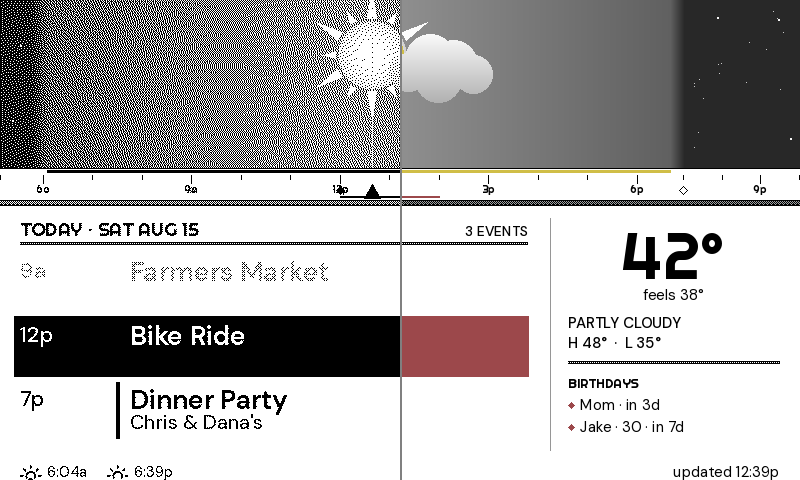
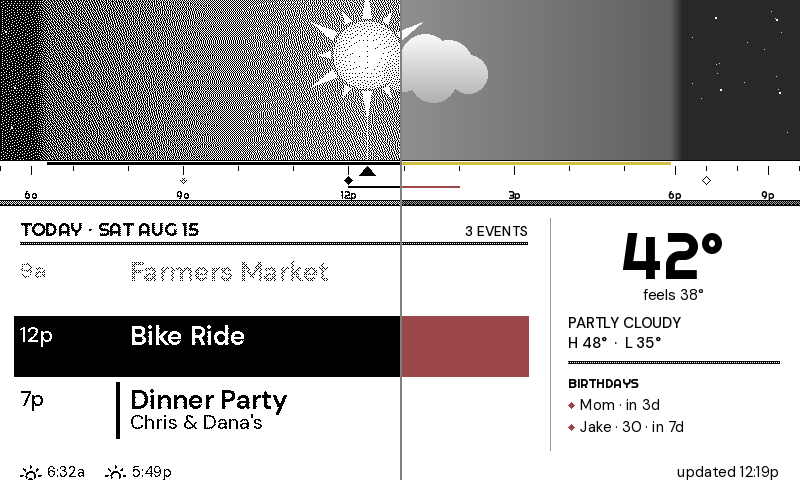
fix(day_arc): give every axis-strip element an exclusive row band
The time axis strip packed four elements into overlapping row ranges:
hour ticks at y+7…15, hour labels at y+17…26, event pips at y+17…25 and
the NOW caret at y+16…30. Labels, pips and the caret all shared
y+16…30, which made collisions a matter of luck rather than something
the layout prevented.

An event starting on the hour puts its pip at exactly the x its hour
label is centred on, so the two could only ever land on top of each
other. Measured against a plain 9am/12pm/3pm/6pm calendar, all four
pips collided with their labels.

Each element now gets an exclusive band — ticks and the caret at y+6…15,
pips at y+16…24, the in-progress duration bar at y+26…27 and labels at
y+28…38. The 8 px this needed comes out of the sky (SKY_H 168 → 160,
AXIS_H 32 → 40), so RIBBON_H stays 200 and the agenda geometry and
density tiers below are untouched. The disc constants follow the shorter
sky rather than leaning on the clamp to do the work.

The caret keeps the tick row deliberately: it marks the current moment
*on the timeline*, so it belongs with the ticks, and the 1 px of tick it
covers where they coincide is a non-loss.

`TestAxisStripBands` asserts the bands are pairwise disjoint and fit the
strip, so a future edit that reintroduces an overlap fails immediately;
it fails against the old geometry, confirming it is not vacuous. A
behavioural test renders the on-the-hour calendar that triggered this.

Claude-Session: https://claude.ai/code/session_014cmXSfoMt4qGsPFMEUmQZN

diff --git a/src/render/components/day_arc_panel.py b/src/render/components/day_arc_panel.py
@@ -7,12 +7,13 @@ re-tasks the artwork so it *is* the calendar rather than competing with it.
 
 Three bands, top to bottom:
 
-  * **Ribbon** (168 px) — a horizontal sky gradient tracking the sun's height
+  * **Ribbon** (160 px) — a horizontal sky gradient tracking the sun's height
     across today, with the sun (or moon, after dark) riding an arc at the
     current time's real horizontal position and weather art drawn around it.
-  * **Axis strip** (32 px) — the ribbon's baseline doubles as a time axis:
-    a daylight bar, hour ticks, a NOW caret, and one pip per timed event so
-    the shape of the day is readable at a glance.
+  * **Axis strip** (40 px) — the ribbon's baseline doubles as a time axis:
+    a daylight bar, hour ticks, a NOW caret, one pip per timed event and the
+    hour labels, so the shape of the day is readable at a glance. Each of
+    those gets its own exclusive row band; see the ``_AXIS_*`` constants.
   * **Body** (274 px) — a full-height agenda on the left and a supporting rail
     (temperature, conditions, birthdays) on the right.
 
@@ -77,9 +78,9 @@ _SUNSET_GLYPH = ""  # wi-sunset
 # Region geometry
 # ---------------------------------------------------------------------------
 
-SKY_H = 168  # dithered sky + disc + weather art
+SKY_H = 160  # dithered sky + disc + weather art
 AXIS_Y = SKY_H  # solid horizon hairline sits on this row
-AXIS_H = 32  # paper-white strip carrying ticks, pips and the caret
+AXIS_H = 40  # paper-white strip carrying ticks, pips, the caret and labels
 RIBBON_H = SKY_H + AXIS_H  # 200
 RULE_H = 6  # ordered-Bayer separator
 BODY_Y = RIBBON_H + RULE_H  # 206
@@ -94,10 +95,35 @@ RAIL_W = 212
 # The axis strip is white so every tick, pip and label can be drawn in solid
 # ink. Marks drawn onto the sky itself would vanish into the night gradient at
 # one end of the day and wash out against the midday band at the other.
-_AXIS_BAR_Y = 2  # daylight bar, relative to AXIS_Y
-_AXIS_TICK_Y = 7
-_AXIS_LABEL_Y = 14
-_AXIS_PIP_Y = 18
+#
+# Every element gets an *exclusive* row band, all offsets relative to AXIS_Y.
+# They used to share rows, which made collisions a matter of luck: an event
+# starting on the hour puts its pip at exactly the x its hour label is centred
+# on, so the two could only ever land on top of each other. Keep these bands
+# disjoint — ``TestAxisStripBands`` fails the build if they stop being so.
+#
+#   y+0            baseline hairline
+#   y+2  … y+4     daylight bar
+#   y+6  … y+14    hour ticks + NOW caret
+#   y+16 … y+24    event pips
+#   y+26 … y+27    in-progress duration bar
+#   y+28 … y+38    hour labels (glyph ink lands ~3 px below the draw origin)
+_AXIS_BAR_Y = 2
+_AXIS_BAR_H = 3
+_AXIS_TICK_Y = 6
+_AXIS_TICK_MAJOR_H = 8
+_AXIS_TICK_MINOR_H = 4
+# The caret shares the tick row on purpose: it marks the current moment *on the
+# timeline*, so it belongs with the ticks, and the 1 px of tick it covers where
+# they coincide is a non-loss.
+_AXIS_CARET_H = 9
+_AXIS_CARET_HALF_W = 8
+_AXIS_PIP_Y = 16
+_AXIS_PIP_H = 9
+_AXIS_DUR_Y = 26
+_AXIS_DUR_H = 2
+_AXIS_LABEL_Y = 28
+_AXIS_LABEL_PT = 11
 
 # Sky tones. Chosen inside halftone's proven range: Floyd-Steinberg only reads
 # as a visible halftone well below mid-grey, so the midday peak stays dark
@@ -113,8 +139,8 @@ _NIGHT_DIM = 0.45
 # Disc placement. The disc rides a sine arc between sunrise and sunset so its
 # height encodes solar altitude — a second reading for free.
 DISC_R = 34
-DISC_BASE_Y = 128  # centre y at sunrise / sunset
-DISC_ARC_RISE = 74  # additional rise at solar midpoint
+DISC_BASE_Y = 120  # centre y at sunrise / sunset — 6 px clear of the baseline
+DISC_ARC_RISE = 66  # additional rise at solar midpoint (peak centre y = 54)
 
 # Axis window shaping.
 DAY_FRACTION = 0.78  # share of the axis width given to the daylight core
@@ -690,10 +716,15 @@ def _draw_axis_strip(
     y0: int,
     w: int,
 ) -> None:
-    """Baseline hairline, daylight bar, hour ticks, event pips and NOW caret."""
+    """Baseline hairline, daylight bar, hour ticks, event pips and NOW caret.
+
+    Each element is confined to its own row band (see the ``_AXIS_*`` constants)
+    so no combination of clock time and event times can make two of them
+    collide.
+    """
     mode = image.mode
     ink = _ink(mode)
-    label_font = (style.font_section_label or style.font_bold)(11)
+    label_font = (style.font_section_label or style.font_bold)(_AXIS_LABEL_PT)
 
     # Baseline: a solid rule the whole ribbon sits on.
     draw.rectangle((x0, y0, x0 + w - 1, y0), fill=ink)
@@ -705,7 +736,7 @@ def _draw_axis_strip(
         bar_x1 = axis.x_for(axis.sunset)
         if bar_x1 > bar_x0:
             draw.rectangle(
-                (bar_x0, y0 + _AXIS_BAR_Y, bar_x1, y0 + _AXIS_BAR_Y + 2),
+                (bar_x0, y0 + _AXIS_BAR_Y, bar_x1, y0 + _AXIS_BAR_Y + _AXIS_BAR_H - 1),
                 fill=_accent_yellow(mode) if mode == "RGB" else ink,
             )
 
@@ -719,7 +750,10 @@ def _draw_axis_strip(
         x = axis.x_for(hour)
         major = hour.hour % 3 == 0
         if major:
-            draw.line((x, y0 + _AXIS_TICK_Y, x, y0 + _AXIS_TICK_Y + 8), fill=ink)
+            draw.line(
+                (x, y0 + _AXIS_TICK_Y, x, y0 + _AXIS_TICK_Y + _AXIS_TICK_MAJOR_H),
+                fill=ink,
+            )
             label = fmt_time(hour)
             lw = text_width(draw, label, label_font)
             lx = x - lw // 2
@@ -727,13 +761,18 @@ def _draw_axis_strip(
                 draw.text((lx, y0 + _AXIS_LABEL_Y), label, font=label_font, fill=ink)
                 last_label_right = lx + lw
         elif x - last_minor_x >= 9:
-            draw.line((x, y0 + _AXIS_TICK_Y, x, y0 + _AXIS_TICK_Y + 4), fill=ink)
+            draw.line(
+                (x, y0 + _AXIS_TICK_Y, x, y0 + _AXIS_TICK_Y + _AXIS_TICK_MINOR_H),
+                fill=ink,
+            )
             last_minor_x = x
         hour += timedelta(hours=1)
 
-    # Event pips. Past events are screened, the in-progress one is solid with a
-    # duration bar, upcoming ones are hollow.
+    # Event pips, on their own row below the ticks. Past events are screened,
+    # the in-progress one is solid, upcoming ones are hollow.
     pip_y = y0 + _AXIS_PIP_Y
+    half = _AXIS_PIP_H // 2
+    dur_y = y0 + _AXIS_DUR_Y
     placed: list[int] = []
     for ev in events:
         if ev.is_all_day:
@@ -743,29 +782,42 @@ def _draw_axis_strip(
             continue
         placed.append(x)
         state = event_state(ev, now)
-        pts = [(x, pip_y), (x + 4, pip_y + 4), (x, pip_y + 8), (x - 4, pip_y + 4)]
+        pts = [
+            (x, pip_y),
+            (x + half, pip_y + half),
+            (x, pip_y + 2 * half),
+            (x - half, pip_y + half),
+        ]
         if state == "past":
             screened_paste(
                 image,
-                (x - 5, pip_y - 1, 11, 11),
-                lambda d, p=pts, ax=x, ay=pip_y: d.polygon(
-                    [(px - ax + 5, py - ay + 1) for px, py in p], fill=0
+                (x - half - 1, pip_y - 1, _AXIS_PIP_H + 2, _AXIS_PIP_H + 2),
+                lambda d, p=pts, ax=x, ay=pip_y, h=half: d.polygon(
+                    [(px - ax + h + 1, py - ay + 1) for px, py in p], fill=0
                 ),
                 threshold=_PAST_SCREEN,
             )
         elif state == "now":
             draw.polygon(pts, fill=ink)
+            # Duration bar gets its own band so it can't cut through a label.
             end_x = axis.x_for(_strip_tz(ev.end))
             if end_x > x:
-                draw.rectangle((x, pip_y + 10, end_x, pip_y + 11), fill=_accent_red(mode))
+                draw.rectangle((x, dur_y, end_x, dur_y + _AXIS_DUR_H - 1), fill=_accent_red(mode))
         else:
             draw.polygon(pts, outline=ink)
 
-    # NOW caret, plus a faint beam running up through the sky.
+    # NOW caret, in the tick row so it reads against the timeline itself, plus a
+    # faint beam running up through the sky.
     now_x = axis.x_for(now)
     draw.line((now_x, y0 - SKY_H + 1, now_x, y0 - 1), fill=_grey(230, mode))
+    caret_top = y0 + _AXIS_TICK_Y
+    caret_bot = caret_top + _AXIS_CARET_H
     draw.polygon(
-        [(now_x, y0 + _AXIS_PIP_Y - 2), (now_x + 8, y0 + AXIS_H - 2), (now_x - 8, y0 + AXIS_H - 2)],
+        [
+            (now_x, caret_top),
+            (now_x + _AXIS_CARET_HALF_W, caret_bot),
+            (now_x - _AXIS_CARET_HALF_W, caret_bot),
+        ],
         fill=_accent_red(mode),
     )
 

diff --git a/tests/test_day_arc_theme.py b/tests/test_day_arc_theme.py
@@ -12,9 +12,26 @@ from src.data.models import Birthday, CalendarEvent, DashboardData
 from src.dummy_data import generate_dummy_data
 from src.render.canvas import render_dashboard
 from src.render.components.day_arc_panel import (
+    _AXIS_BAR_H,
+    _AXIS_BAR_Y,
+    _AXIS_CARET_H,
+    _AXIS_DUR_H,
+    _AXIS_DUR_Y,
+    _AXIS_LABEL_PT,
+    _AXIS_LABEL_Y,
+    _AXIS_PIP_H,
+    _AXIS_PIP_Y,
+    _AXIS_TICK_MAJOR_H,
+    _AXIS_TICK_Y,
+    AXIS_H,
     AXIS_MAX_HOUR,
     AXIS_MIN_HOUR,
     DAY_FRACTION,
+    DISC_ARC_RISE,
+    DISC_BASE_Y,
+    DISC_R,
+    RIBBON_H,
+    SKY_H,
     _next_birthdays,
     _resolve_day_bounds,
     _sky_marks,
@@ -354,6 +371,63 @@ class TestAgendaDay:
             False,
         )
         assert agenda_day([_event(8)], TODAY, MIDNIGHT + timedelta(hours=19), None)[1] is True
+
+
+class TestAxisStripBands:
+    """The axis strip's elements must never share rows.
+
+    They used to: hour labels, event pips and the NOW caret all lived in
+    ``y+16 … y+30``. That made collisions a matter of luck — an event starting
+    on the hour puts its pip at exactly the x its hour label is centred on, so
+    a plain 9a/12p/3p/6p calendar collided on every single one.
+    """
+
+    def _bands(self) -> list[tuple[str, int, int]]:
+        return [
+            ("baseline", 0, 1),
+            ("daylight bar", _AXIS_BAR_Y, _AXIS_BAR_Y + _AXIS_BAR_H),
+            (
+                "ticks/caret",
+                _AXIS_TICK_Y,
+                _AXIS_TICK_Y + max(_AXIS_TICK_MAJOR_H, _AXIS_CARET_H) + 1,
+            ),
+            ("pips", _AXIS_PIP_Y, _AXIS_PIP_Y + _AXIS_PIP_H),
+            ("duration bar", _AXIS_DUR_Y, _AXIS_DUR_Y + _AXIS_DUR_H),
+            ("labels", _AXIS_LABEL_Y, _AXIS_LABEL_Y + _AXIS_LABEL_PT),
+        ]
+
+    def test_bands_are_pairwise_disjoint(self):
+        bands = self._bands()
+        for i, (name_a, a0, a1) in enumerate(bands):
+            for name_b, b0, b1 in bands[i + 1 :]:
+                assert a1 <= b0 or b1 <= a0, f"{name_a} [{a0},{a1}) overlaps {name_b} [{b0},{b1})"
+
+    def test_bands_fit_within_the_strip(self):
+        for name, lo, hi in self._bands():
+            assert 0 <= lo < hi <= AXIS_H, f"{name} [{lo},{hi}) escapes the {AXIS_H}px strip"
+
+    def test_ribbon_height_is_unchanged(self):
+        # The body below the ribbon (agenda geometry, density tiers) is sized
+        # against RIBBON_H, so trading sky for axis must keep the total fixed.
+        assert SKY_H + AXIS_H == RIBBON_H == 200
+
+    def test_disc_stays_clear_of_the_baseline(self):
+        assert DISC_BASE_Y + DISC_R < SKY_H
+        assert DISC_BASE_Y - DISC_ARC_RISE - DISC_R >= 0
+
+    def test_on_the_hour_events_do_not_collide_with_hour_labels(self):
+        # The reported regression, end to end: a 9a/12p/3p/6p day renders with
+        # the pip band and the label band both inked and no shared rows.
+        events = [_event(h, name=f"Meeting {h}") for h in (9, 12, 15, 18)]
+        img = _render(data=_data_for(events=events)).convert("L")
+        pip_band = img.crop((0, SKY_H + _AXIS_PIP_Y, 800, SKY_H + _AXIS_PIP_Y + _AXIS_PIP_H))
+        label_band = img.crop((0, SKY_H + _AXIS_LABEL_Y, 800, SKY_H + AXIS_H))
+        assert _ink_count(pip_band) > 0, "no event pips drawn"
+        assert _ink_count(label_band) > 0, "no hour labels drawn"
+        # The rows between the two bands are the separator — they must be clear
+        # of everything except the (optional) in-progress duration bar.
+        gap = img.crop((0, SKY_H + _AXIS_PIP_Y + _AXIS_PIP_H, 800, SKY_H + _AXIS_DUR_Y))
+        assert _ink_count(gap) == 0
 
 
 class TestAgendaMetrics:

diff --git a/CLAUDE.md b/CLAUDE.md
@@ -465,7 +465,8 @@ default to `None` and fall back gracefully so adding a new field never breaks ex
 - `naturalist` theme is a Victorian botanical plate in `naturalist_panel.py`. Astloch blackletter masthead (`PLATE [Roman]` left + `[YEAR-roman] · [MONTH]` right) over a triple-rule. Below it: Cinzel small-caps Latin specimen name (`QUERCUS VERNALIS`, `AESTIVALIS`, `AUTUMNALIS`, `HIBERNALIS` keyed by `_season(today)`, plus weather suffixes `· sub pluvia / fulmine / nive / nebula / gelu` via `_weather_modifier(icon, temp)`). Hero specimen is a procedural branch (solid black trunk + white engraving-style highlight strokes, curving roots, mixed filled/outlined almond leaves whose count + treatment vary by season — bare in winter, buds in spring, lush canopy in summer, fallen leaves on the ground in autumn — plus weather overlays for rain/storm/snow/frost/fog). RNG seed comes from `_stable_seed(season, modifier, today)` so the specimen is reproducible across Python processes (default `str.__hash__` is randomized per process and would break snapshot tests). Four leader-line callouts (`FIG. I EVENT`, `FIG. II LUNA`, `FIG. III SOL`, `FIG. IV AER`) pin data to anatomical features on the specimen via `_feature_points()`. Triple-rule footer + daily quote in Playfair + red Cinzel author. `canvas_mode="L"`, `preferred_quantization_mode="floyd_steinberg"`, `prefer_color_on_inky=True`. Inky palette `(INKY_RED, INKY_BLACK)`. Included in the random rotation pool.
 - `constellation_map` theme is a dark-canvas star chart in `constellation_map_panel.py`. Uses `canvas_mode="L"` with `fg=255, bg=0` (white stars on black sky) and `prefer_color_on_inky=True` so Inky renders the disc rim, cardinal letters, and constellation names in yellow with blue constellation lines + altitude rings. Equidistant azimuthal projection (zenith centre, horizon rim, N top / **E left** / S bottom / W right — looking-up convention). Bundled star catalogue (`src/render/star_catalog.py`) is a curated J2000 subset (~45 named bright stars) with constellation outline data for Ursa Major, Cassiopeia, Orion, Lyra, Cygnus, Boötes, and Leo. Position math (`_julian_day_full`, `gmst_degrees`, `local_sidereal_time`, `equatorial_to_horizontal`, `moon_equatorial`) all live in `src/astronomy.py`. During daylight the chart auto-projects for tonight's solar midnight (12 h after solar noon) so the disc stays informative. Star and constellation labels render in **Audiowide** (OFL retro-futuristic display sans, `audiowide`). Requires `weather.latitude` / `weather.longitude`; without them the panel renders an explanatory message inside the disc. Inky palette `(INKY_YELLOW, INKY_BLUE)`. Included in the random rotation pool.
 - `weatherglass` theme is a Victorian weather-station instrument deck in `weatherglass_panel.py` (full-canvas `weatherglass` region on `ThemeLayout`; the panel receives the full `DashboardData` like `diags_panel`). A **Rye** (`rye`) Western-saloon masthead sits over three hero instruments — a procedural mercury thermometer, a round barometer dial, and a hygrometer arc + UV-index bar — then a secondary row of wind compass, sun arc (`src.astronomy.sun_times`), moon porthole, and an optional AQI badge. The barometer carries a second **trend needle** driven by a tiny rolling pressure history in `state/weatherglass_pressure_history.json` (atomic write, trimmed to samples 1–36 h old); `app.py` passes `state_dir=None` on `--dry-run`/`--dummy` runs so previews never persist history. `canvas_mode="L"` at 2× supersample (1600×960) with `preferred_quantization_mode="threshold"` (not Floyd-Steinberg — every shaded zone is hand-stippled, so the antialiased rims snap to crisp solid black instead of dithering into speckle) and `prefer_color_on_inky=True`. Numerals use **Cinzel Black** (`cinzel_black`, via `font_date_number`) since NuCore's digit/degree metrics are degenerate. Inky palette `(INKY_YELLOW, INKY_RED)` — brass rims yellow, mercury column + alert cartouche red, cold scale + falling-pressure needle blue, comfort band + rising-pressure needle green. No new fetcher. Included in the random rotation pool.
-- `day_arc` theme is the calendar-forward sibling of `halftone`, rendered by `day_arc_panel.py` via the full-canvas `day_arc` region. Bands: a 168-px dithered ribbon, a 32-px paper-white axis strip, a 6-px Bayer rule, then a 274-px body (agenda left, supporting rail right, footer). Notable points:
+- `day_arc` theme is the calendar-forward sibling of `halftone`, rendered by `day_arc_panel.py` via the full-canvas `day_arc` region. Bands: a 160-px dithered ribbon, a 40-px paper-white axis strip, a 6-px Bayer rule, then a 274-px body (agenda left, supporting rail right, footer). Notable points:
+  - **Every element in the axis strip gets an exclusive row band** (the `_AXIS_*` constants: ticks+caret, pips, duration bar, labels). They originally shared rows, which made collisions a matter of luck — an event starting on the hour puts its pip at exactly the x its hour label is centred on, so a plain 9a/12p/3p/6p calendar collided on every one. `TestAxisStripBands` fails the build if the bands stop being pairwise disjoint. The 8 px this needed came out of `SKY_H` (168 → 160) so `RIBBON_H` stays 200 and the agenda geometry below is untouched.
   - **The axis strip is deliberately white.** Ticks, labels and pips drawn onto the sky itself would vanish into the night gradient at one end of the day and wash out against the midday band at the other; a paper strip keeps every mark in solid ink at all hours.
   - **`build_time_axis()` is piecewise-linear**, not linear: the daylight core always gets `DAY_FRACTION` (78%) of the width and the night margins are compressed, so a midwinter day still reads as a day while a 21:00 dinner keeps a truthful position. It requires events **already filtered to the day** (`events_for_day`) and hard-clamps to `AXIS_MIN_HOUR`/`AXIS_MAX_HOUR` — passing a whole week once stretched the axis across six days. Falls back to a single linear segment when sun times are missing, when `sunset <= sunrise`, or when the clamped bounds swallow the sunrise/sunset pair (polar).
   - **Sun times** come from `astronomy.sun_times` when `weather.latitude`/`longitude` are set (exact `(0.0, 0.0)` counts as unset, same convention as `astronomy`/`light_cycle`/`moonphase`), else from OWM-reported `weather.sunrise`/`sunset`, else `None` → fixed 05:00–23:00 window.

diff --git a/docs/themes.md b/docs/themes.md
@@ -279,7 +279,7 @@ Single-day agenda with a large date panel and roomy event list.
 
 The calendar-forward sibling of [`halftone`](#halftone) — same engraving language, but the artwork *is* the calendar instead of competing with it.
 
-The top 168 px is a **day ribbon**: a horizontal sky gradient keyed to the real sunrise and sunset (computed from `weather.latitude` / `weather.longitude`, falling back to the OWM-reported times, then to a fixed 05:00–23:00 window), with the sun — or the moon at its true phase, after dark — riding a sine arc at the current time's actual horizontal position. Weather art is drawn around it from the OWM icon code, reusing halftone's cloud, rain, snow, lightning and fog primitives. Beneath it a 32-px **time axis** carries a daylight bar, hour ticks, a NOW caret, and one pip per timed event. The axis is piecewise-linear: the daylight core always gets 78% of the width, so a midwinter day still reads as a day, while the compressed night margins keep a 21:00 dinner at a truthful position.
+The top 160 px is a **day ribbon**: a horizontal sky gradient keyed to the real sunrise and sunset (computed from `weather.latitude` / `weather.longitude`, falling back to the OWM-reported times, then to a fixed 05:00–23:00 window), with the sun — or the moon at its true phase, after dark — riding a sine arc at the current time's actual horizontal position. Weather art is drawn around it from the OWM icon code, reusing halftone's cloud, rain, snow, lightning and fog primitives. Beneath it a 40-px **time axis** carries a daylight bar, hour ticks, a NOW caret, one pip per timed event and the hour labels — each on its own row band, so no combination of clock time and event times can make two of them collide. The axis is piecewise-linear: the daylight core always gets 78% of the width, so a midwinter day still reads as a day, while the compressed night margins keep a 21:00 dinner at a truthful position.
 
 Below a 6-px ordered-Bayer rule, the remaining 274 px belong to the day. A full-height **agenda** fills the left, and dithering carries meaning rather than decoration: elapsed events are perforated on a Bayer lattice so they read as spent from across the room, the event happening right now is inverted into a solid bar, and everything still to come is crisp. The type size adapts to how full the day is (three roomy rows up to seven dense ones, with `+N more` beyond that). A narrow **rail** on the right carries the temperature numeral, feels-like, conditions, H/L and upcoming birthdays; the footer shows sunrise, sunset and the render time.
 
